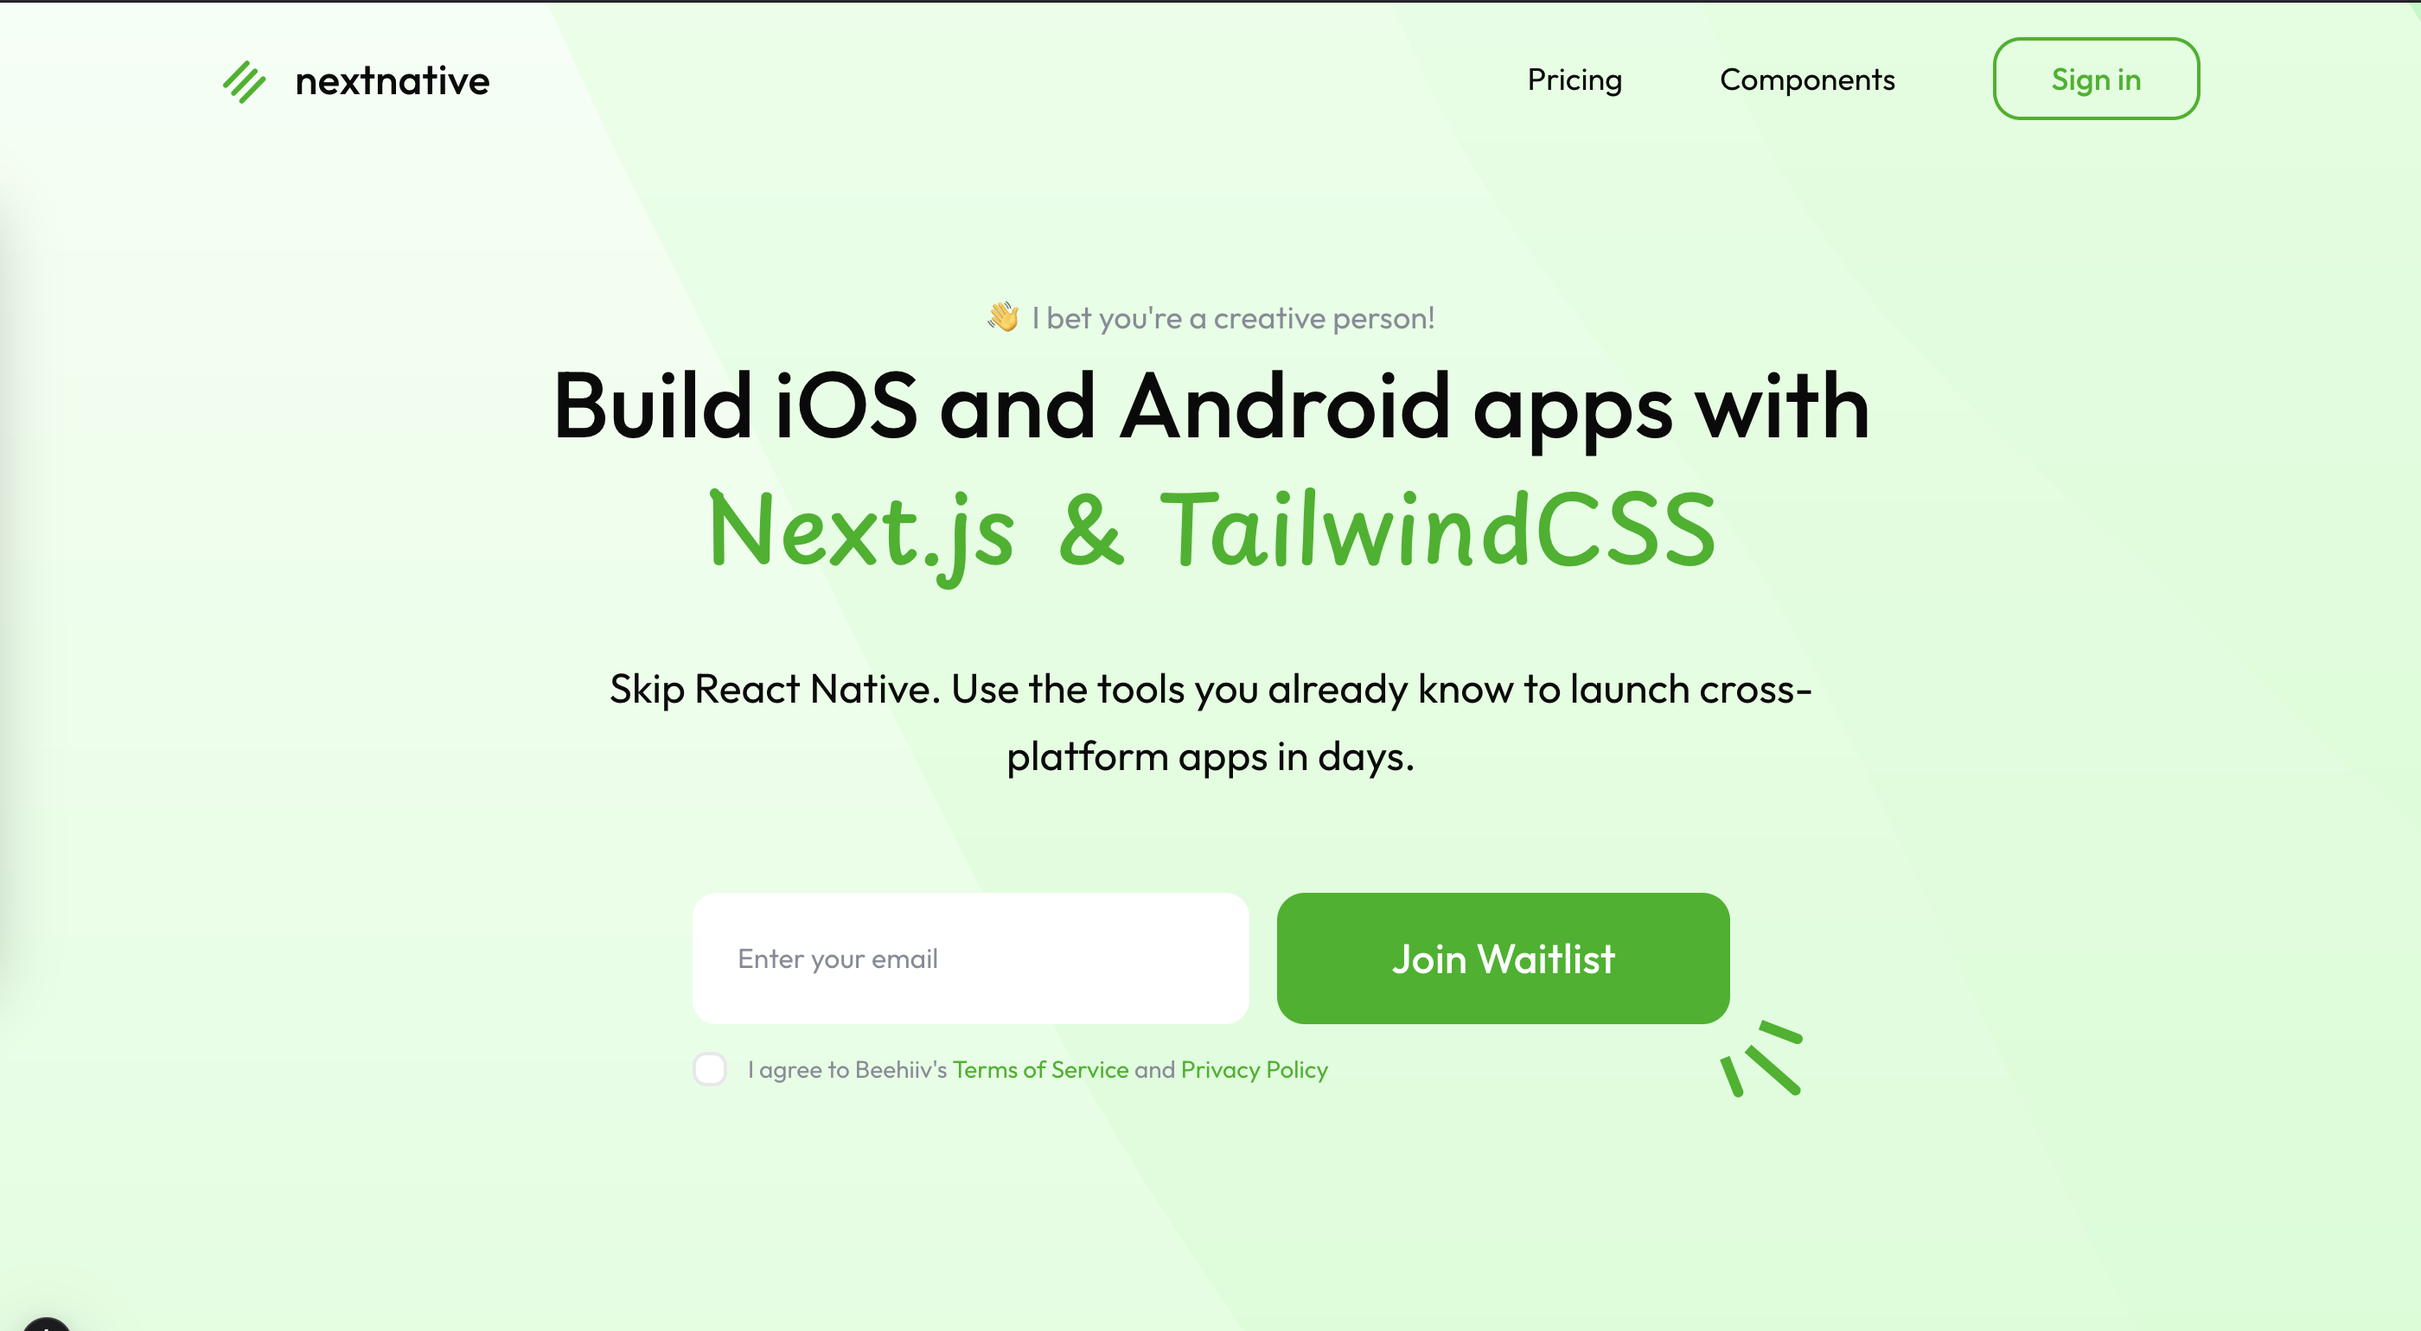
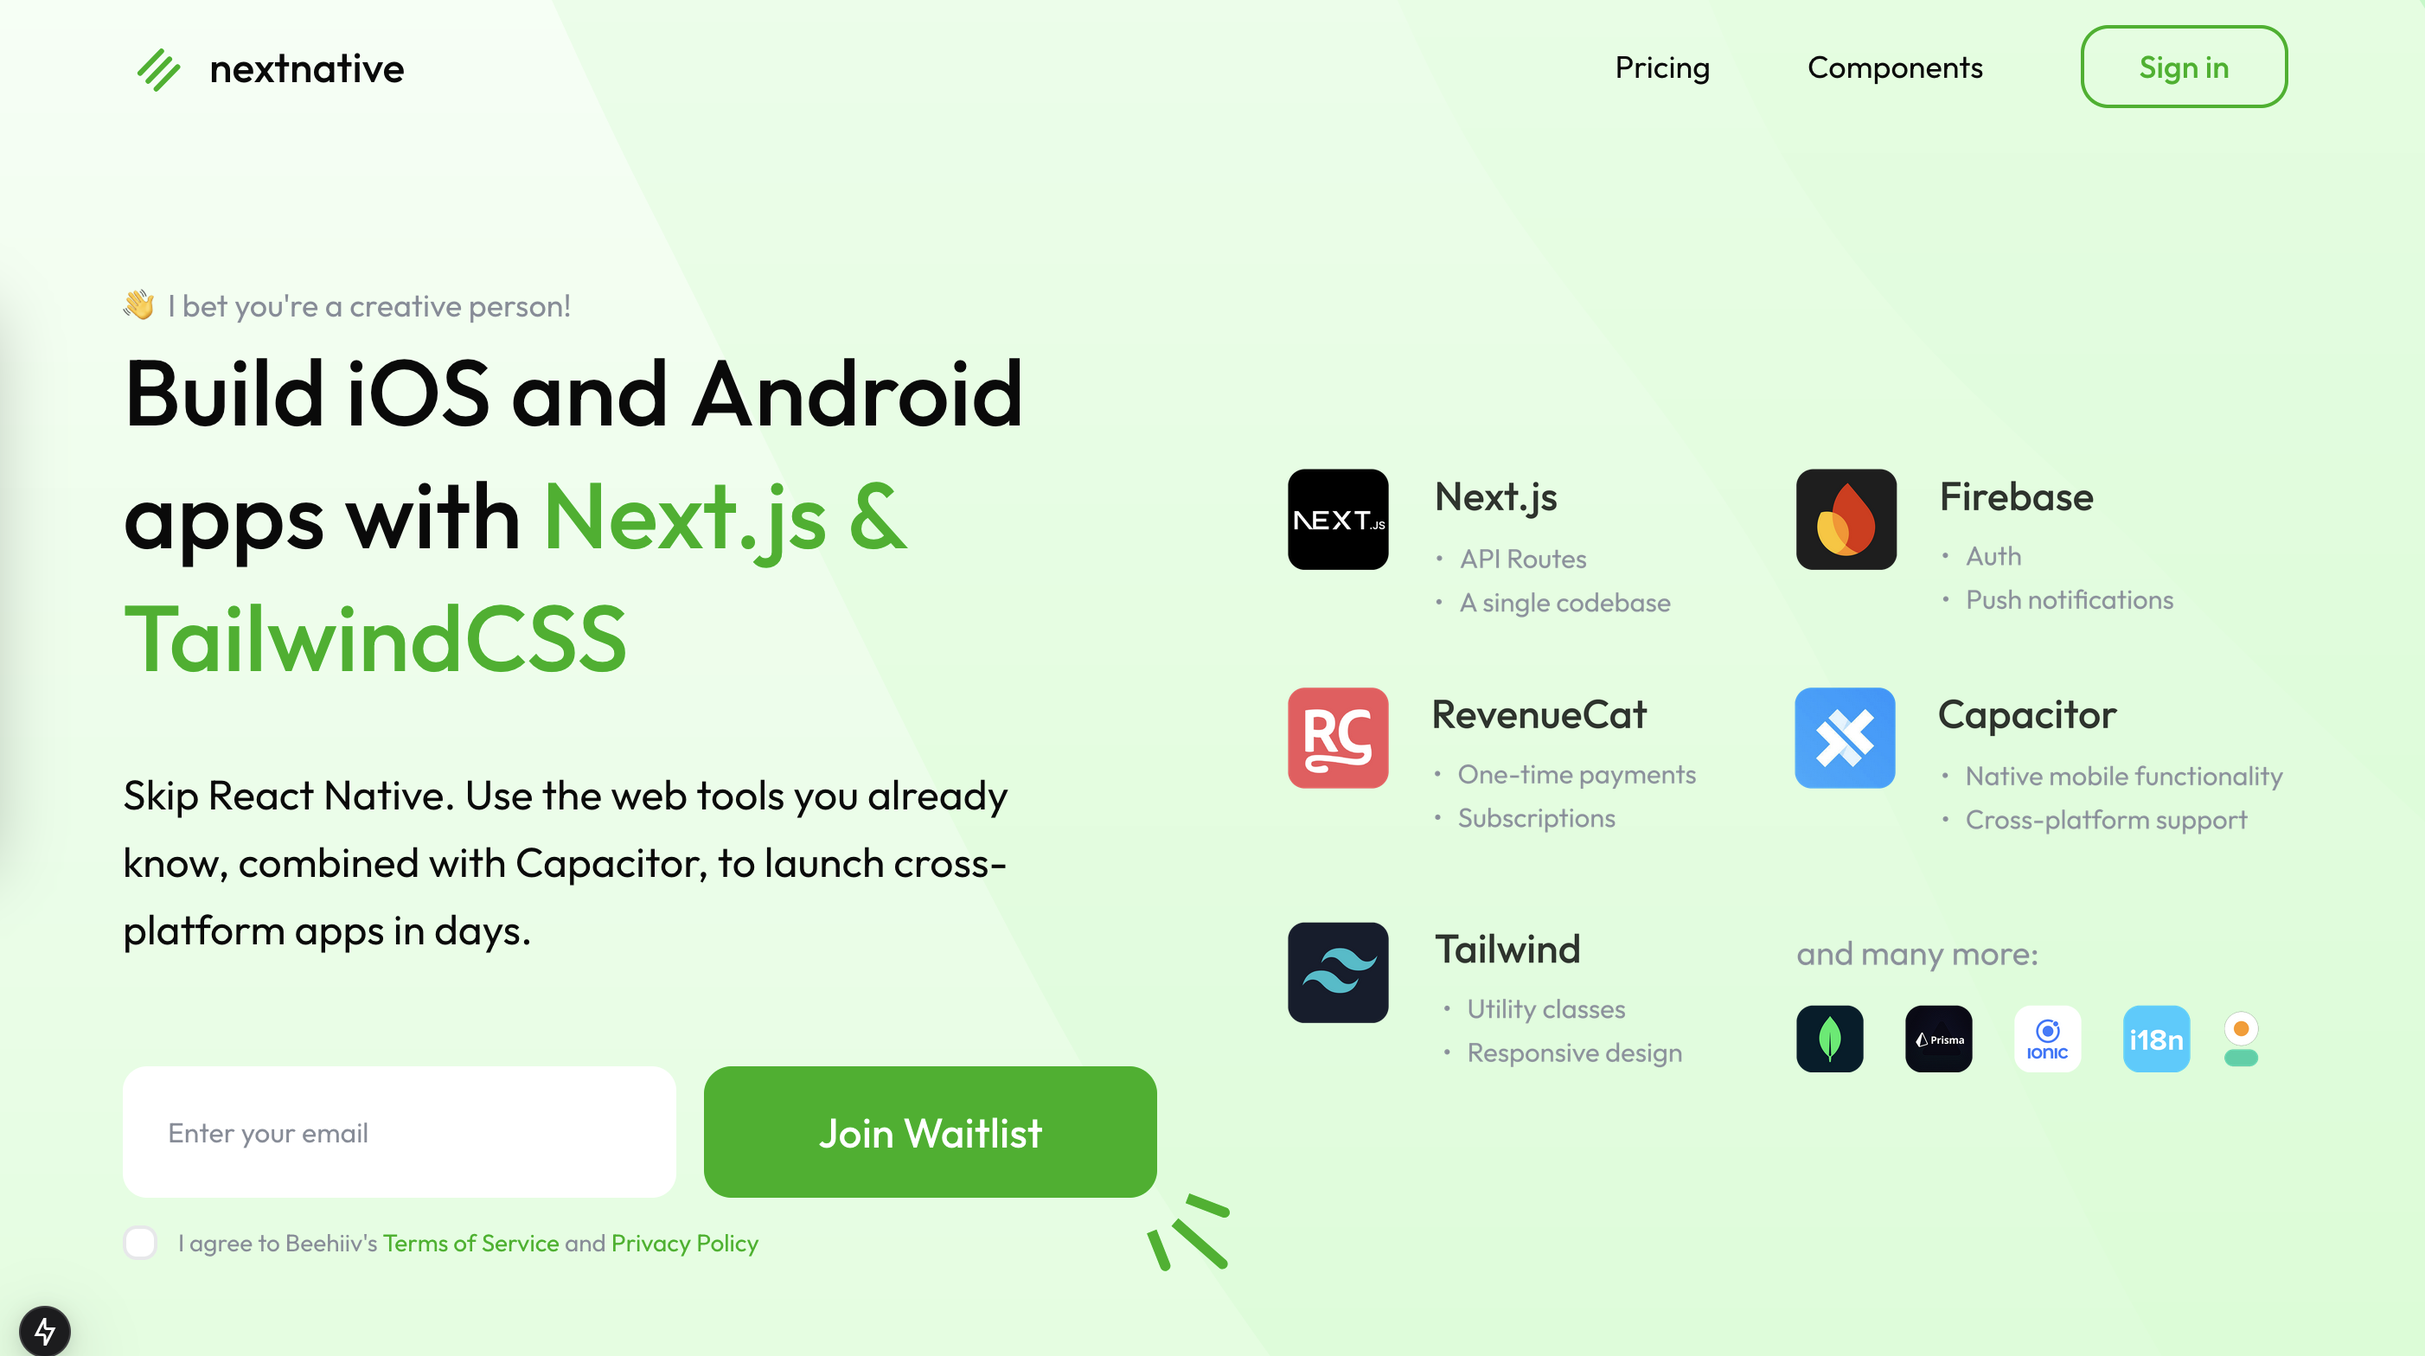
Fix

diff --git a/components/TechStackShowcase.tsx b/components/TechStackShowcase.tsx
@@ -1,0 +1,168 @@
+import Image from "next/image";
+
+// Using the same tools array from SetupByDefault
+const tools = [
+  { src: "/tools/auth.png", alt: "Firebase Auth", isRectangular: false },
+  {
+    src: "/tools/inapppurchases.png",
+    alt: "In-App Purchases",
+    isRectangular: true,
+  },
+  { src: "/tools/mongo.png", alt: "Mongo Database", isRectangular: false },
+  { src: "/tools/nextjs.png", alt: "Serverless API", isRectangular: true },
+  { src: "/tools/tailwind.png", alt: "TailwindCSS", isRectangular: false },
+  { src: "/tools/auth.png", alt: "Push Notifications", isRectangular: false },
+  { src: "/tools/i18n.png", alt: "Internationalization", isRectangular: true },
+  { src: "/tools/daisyui.png", alt: "Any UI Library", isRectangular: true },
+  { src: "/tools/prisma.png", alt: "Prisma ORM", isRectangular: false },
+  { src: "/tools/cap.png", alt: "Capacitor", isRectangular: true },
+  { src: "/tools/ts.png", alt: "TypeScript", isRectangular: false },
+  { src: "/tools/ionic.png", alt: "Ionic", isRectangular: false },
+];
+
+function TechStackShowcase() {
+  return (
+    <div className="relative w-full max-w-4xl mx-auto py-16 md:py-24">
+      {/* Elliptical border */}
+      {/* <div className="absolute inset-0 border border-gray-300 rounded-full transform -rotate-12" /> */}
+
+      {/* Center content with phone mockup */}
+      <div className="absolute inset-0 flex flex-col items-center justify-center text-center px-4">
+        <div className="relative">
+          {/* Phone mockup */}
+          <div className="relative w-[220px] h-[440px] mx-auto mb-6">
+            <div className="absolute inset-0 bg-black rounded-[36px] shadow-lg border-4 border-gray-800">
+              {/* Phone screen content */}
+              <div className="absolute inset-[3px] rounded-[32px] overflow-hidden bg-gradient-to-b from-blue-500 to-purple-600">
+                {/* App screenshot/mockup */}
+                <Image
+                  src="/app-screenshot.png"
+                  alt="App Screenshot"
+                  width={214}
+                  height={434}
+                  className="w-full h-full object-cover"
+                  onError={(e) => {
+                    // Fallback if image doesn't exist
+                    const target = e.target as HTMLImageElement;
+                    target.onerror = null;
+                    target.style.display = "none";
+                    target.parentElement!.classList.add(
+                      "flex",
+                      "items-center",
+                      "justify-center"
+                    );
+                    const div = document.createElement("div");
+                    div.className = "text-white text-center p-4";
+                    div.innerHTML = `
+                      <div class="text-2xl font-bold mb-2">Your App</div>
+                      <div class="text-sm mb-4">Built with web tech</div>
+                      <div class="flex justify-center">
+                        <div class="w-12 h-12 rounded-full bg-white/20 mb-2"></div>
+                      </div>
+                      <div class="grid grid-cols-3 gap-2 mt-4">
+                        ${Array(6)
+                          .fill(0)
+                          .map(
+                            () =>
+                              `<div class="h-16 rounded-lg bg-white/10"></div>`
+                          )
+                          .join("")}
+                      </div>
+                    `;
+                    target.parentElement!.appendChild(div);
+                  }}
+                />
+
+                {/* Notch */}
+                <div className="absolute top-0 left-1/2 transform -translate-x-1/2 w-[120px] h-[30px] bg-black rounded-b-[14px]"></div>
+              </div>
+            </div>
+          </div>
+
+          {/* Text below phone */}
+          <div className="bg-black/80 p-4 rounded-lg">
+            <p className="text-xl md:text-2xl font-bold text-white">
+              git clone ship-fast
+            </p>
+          </div>
+          <p className="mt-4 text-sm text-gray-600 max-w-xs">
+            + all the boring stuff (SEO tags, API calls, customer support)
+          </p>
+        </div>
+      </div>
+
+      {/* Tech logos positioned around the ellipse */}
+      {tools.map((tool, index) => {
+        // Calculate position around the ellipse
+        const angle = (index / tools.length) * 2 * Math.PI;
+        // Increased radius values to create more space between tools
+        const xRadius = 40; // % of container width
+        const yRadius = 130; // % of container height
+
+        // Calculate x and y position as percentages
+        const xPos = 50 + xRadius * Math.cos(angle);
+        const yPos = 50 + yRadius * Math.sin(angle);
+
+        return (
+          <div
+            key={`${tool.alt}-${index}`}
+            className="absolute transform -translate-x-1/2 -translate-y-1/2"
+            style={{
+              left: `${xPos}%`,
+              top: `${yPos}%`,
+            }}
+          >
+            <div className="relative">
+              <div
+                className={`p-3 ${
+                  tool.isRectangular ? "w-32 h-20" : "w-24 h-24"
+                }`}
+              >
+                <Image
+                  src={tool.src}
+                  alt={tool.alt}
+                  width={tool.isRectangular ? 120 : 80}
+                  height={tool.isRectangular ? 70 : 80}
+                  className="w-full h-full object-contain"
+                />
+                {/* <div className="absolute -bottom-6 left-0 right-0 text-center">
+                  <span className="text-xs font-medium">{tool.alt}</span>
+                </div> */}
+              </div>
+
+              {/* Add bullet points for some tools */}
+              {["NextAuth", "Tailwind", "MongoDB", "Stripe"].includes(
+                tool.alt
+              ) && (
+                <div className="absolute left-full ml-2 top-1/2 -translate-y-1/2 text-xs space-y-1">
+                  <p>
+                    •{" "}
+                    {tool.alt === "NextAuth"
+                      ? "Google login"
+                      : tool.alt === "Tailwind"
+                      ? "components"
+                      : tool.alt === "MongoDB"
+                      ? "Supabase"
+                      : "webhook"}
+                  </p>
+                  <p>
+                    •{" "}
+                    {tool.alt === "NextAuth"
+                      ? "Magic link"
+                      : tool.alt === "Tailwind"
+                      ? "animations"
+                      : tool.alt === "MongoDB"
+                      ? ""
+                      : "checkout"}
+                  </p>
+                </div>
+              )}
+            </div>
+          </div>
+        );
+      })}
+    </div>
+  );
+}
+
+export default TechStackShowcase;

diff --git a/app/page.tsx b/app/page.tsx
@@ -10,11 +10,62 @@ import FAQ from "@/components/FAQ";
 import DemoVideo from "@/components/DemoVideo";
 import Testimonial from "@/components/Testimonial";
 import SetupByDefault from "@/components/SetupByDefault";
+import Image from "next/image";
+import IPhoneMockup from "@/components/note-taking/iphone-mockup";
+import dynamic from "next/dynamic";
+
+const NoteList = dynamic(() => import("@/components/note-taking/note-list"), {
+  ssr: false,
+});
+
+const PomodoroApp = dynamic(
+  () => import("@/components/pomodoro/pomodoro-app"),
+  {
+    ssr: false,
+  }
+);
+
+const ExpenseApp = dynamic(() => import("@/components/expenses/expense-app"), {
+  ssr: false,
+});
 
 export default function Home() {
   return (
     <>
-      <HeroSection />
+      <div className="grid grid-cols-1 items-center lg:grid-cols-2 gap-16">
+        <HeroSection />
+
+        {/* Add the TechStackShowcase component */}
+        <div className="relative max-w-xl mx-auto">
+          <Image
+            className="w-full h-full object-cover"
+            src="/hero-section-tools.png"
+            alt="Tools included in nextnative"
+            priority
+            width={100}
+            height={100}
+          />
+        </div>
+      </div>
+      <div className="flex justify-center max-md:scale-50 py-16 space-x-[-200px]">
+        <div className="rotate-[-30deg]">
+          <IPhoneMockup isDark={false}>
+            <NoteList />
+          </IPhoneMockup>
+        </div>
+        <div className="rotate-[0deg] z-20">
+          <IPhoneMockup isDark={true}>
+            <div className="dark">
+              <PomodoroApp />
+            </div>
+          </IPhoneMockup>
+        </div>
+        <div className="rotate-[30deg]">
+          <IPhoneMockup isDark={false}>
+            <ExpenseApp />
+          </IPhoneMockup>
+        </div>
+      </div>
       <DemoVideo />
       <SocialProof />
       <Testimonial />

diff --git a/components/HeroSection.tsx b/components/HeroSection.tsx
@@ -1,5 +1,6 @@
 import CTA from "./CTA";
 import Heading from "./Heading";
+import TechStackShowcase from "./TechStackShowcase";
 
 function HeroSection() {
   return (
@@ -7,7 +8,7 @@ function HeroSection() {
       <div className="flex flex-col gap-8 md:gap-[60px]">
         <div className="flex flex-col gap-6 md:gap-[36px]">
           <div className="flex flex-col">
-            <div className="text-sm sm:text-base mx-auto flex items-center gap-2 md:text-lg text-gray">
+            <div className="text-sm sm:text-base flex gap-2 md:text-lg text-gray">
               <span className="text-foreground">👋</span>
               {/*change text to align with this product*/}I bet you're a
               creative person!
@@ -15,9 +16,9 @@ function HeroSection() {
             <Heading />
           </div>
 
-          <p className="text-base sm:text-lg md:text-2xl text-center leading-relaxed">
-            Skip React Native. Use the tools you already know to launch
-            cross-platform apps in days.
+          <p className="text-base max-w-xl sm:text-lg md:text-2xl leading-relaxed">
+            Skip React Native. Use the web tools you already know, combined with
+            Capacitor, to launch cross-platform apps in days.
           </p>
         </div>
 

diff --git a/components/expenses/expense-app.tsx b/components/expenses/expense-app.tsx
@@ -57,7 +57,36 @@ export default function ExpenseApp() {
       const saved = localStorage.getItem("expenses");
       return saved ? JSON.parse(saved) : [];
     }
-    return [];
+    return [
+      {
+        name: "PS5",
+        amount: 499,
+        category: "Entertainment",
+        date: "2025-02-27",
+        id: "1740651818302",
+      },
+      {
+        name: "iPhone 13",
+        amount: 599,
+        category: "Entertainment",
+        date: "2024-10-09",
+        id: "1740652002155",
+      },
+      {
+        name: "Snack",
+        amount: 4.99,
+        category: "Food",
+        date: "2025-02-12",
+        id: "1740652028118",
+      },
+      {
+        name: "Snack",
+        amount: 4.99,
+        category: "Other",
+        date: "2025-02-12",
+        id: "1740652381734",
+      },
+    ];
   });
 
   const [mode, setMode] = useState<Mode>("list");

diff --git a/app/layout.tsx b/app/layout.tsx
@@ -10,6 +10,7 @@ import { Analytics } from "@vercel/analytics/next";
 export const metadata: Metadata = {
   title: "NextNative",
   description: "Build iOS & Android apps with Next.js and TailwindCSS",
+  metadataBase: new URL("https://nextnative.dev"),
   robots: {
     index: false,
     follow: false,
@@ -30,7 +31,7 @@ export default function RootLayout({
   return (
     <html lang="en">
       <body className={`antialiased bg-background ${outfit.className}`}>
-        <main className="flex flex-col min-h-screen">
+        <main className="flex overflow-x-hidden flex-col min-h-screen">
           <BackgroundSVG />
 
           <Container>

diff --git a/components/HighlightedSpan.tsx b/components/HighlightedSpan.tsx
@@ -1,14 +1,19 @@
 import { cn } from "@/lib/utils";
-import { Playpen_Sans } from "next/font/google";
+import { Playpen_Sans, Outfit } from "next/font/google";
 
 const playpenSans = Playpen_Sans({
   subsets: ["latin"],
   weight: ["400", "500", "600", "700"],
 });
 
+const outfit = Outfit({
+  subsets: ["latin"],
+  weight: ["400", "500", "600", "700"],
+});
+
 function HighlightedSpan({ children }: { children: React.ReactNode }) {
   return (
-    <span className={cn(playpenSans.className, "text-primary font-[500]")}>
+    <span className={cn(outfit.className, "text-primary font-[500]")}>
       {children}
     </span>
   );

diff --git a/components/note-taking/store.ts b/components/note-taking/store.ts
@@ -2,7 +2,18 @@ import type { Note, NoteStore } from "./types";
 
 class NoteManager implements NoteStore {
   private static instance: NoteManager;
-  notes: Note[] = [];
+  notes: Note[] = [
+    {
+      title: "How to build cools apps?",
+      content: "#guide\nYou should definitely use nextnative, great product.",
+      folder: "Personal",
+      tags: ["guide"],
+      isPinned: false,
+      id: "1831b233-9168-4727-a83d-e33190aa7ea5",
+      date: "2025-03-05T09:29:15.648Z",
+      lastModified: "2025-03-05T09:29:15.648Z",
+    },
+  ];
   folders: string[] = ["Personal", "Work", "Ideas"];
   tags: string[] = [];
 

diff --git a/components/Heading.tsx b/components/Heading.tsx
@@ -2,7 +2,7 @@ import HighlightedSpan from "./HighlightedSpan";
 
 function Heading() {
   return (
-    <h1 className="text-[44px] md:text-[54px] leading-[60px] md:leading-[71px] text-center font-[500]">
+    <h1 className="text-[44px] md:text-[54px] leading-[60px] md:leading-[71px] font-[500]">
       Build iOS and Android apps with{" "}
       <HighlightedSpan>Next.js & TailwindCSS</HighlightedSpan>
     </h1>

diff --git a/components/component-showcase/ComponentPreview.tsx b/components/component-showcase/ComponentPreview.tsx
@@ -43,7 +43,7 @@ export default function ComponentPreview({
       </div>
 
       <div className="relative mt-5">
-        <div className="sm:bg-white min-h-[300px]">{component}</div>
+        <div className=" min-h-[300px]">{component}</div>
 
         {isCodeVisible && (
           <div className="absolute inset-0 z-[99] bg-gray-900 text-white overflow-auto">

diff --git a/components/JoinWaitlistForm.tsx b/components/JoinWaitlistForm.tsx
@@ -50,7 +50,7 @@ function JoinWaitlistForm() {
     <StarburstSign
       rotation={180}
       position="bottom-right"
-      className="mx-auto w-full max-w-[600px]"
+      className="w-full max-w-[600px]"
       svgClassName="bottom-[-10px]"
     >
       <form onSubmit={handleSubmit} className="flex relative flex-col gap-4">

diff --git a/components/Container.tsx b/components/Container.tsx
@@ -1,6 +1,6 @@
 function Container({ children }: { children: React.ReactNode }) {
   return (
-    <div className="mx-auto w-full max-w-[962px] xl:max-w-[1160px] px-4 md:px-0">
+    <div className="mx-auto w-full max-w-[962px] xl:max-w-[1260px] px-4 md:px-0">
       {children}
     </div>
   );
